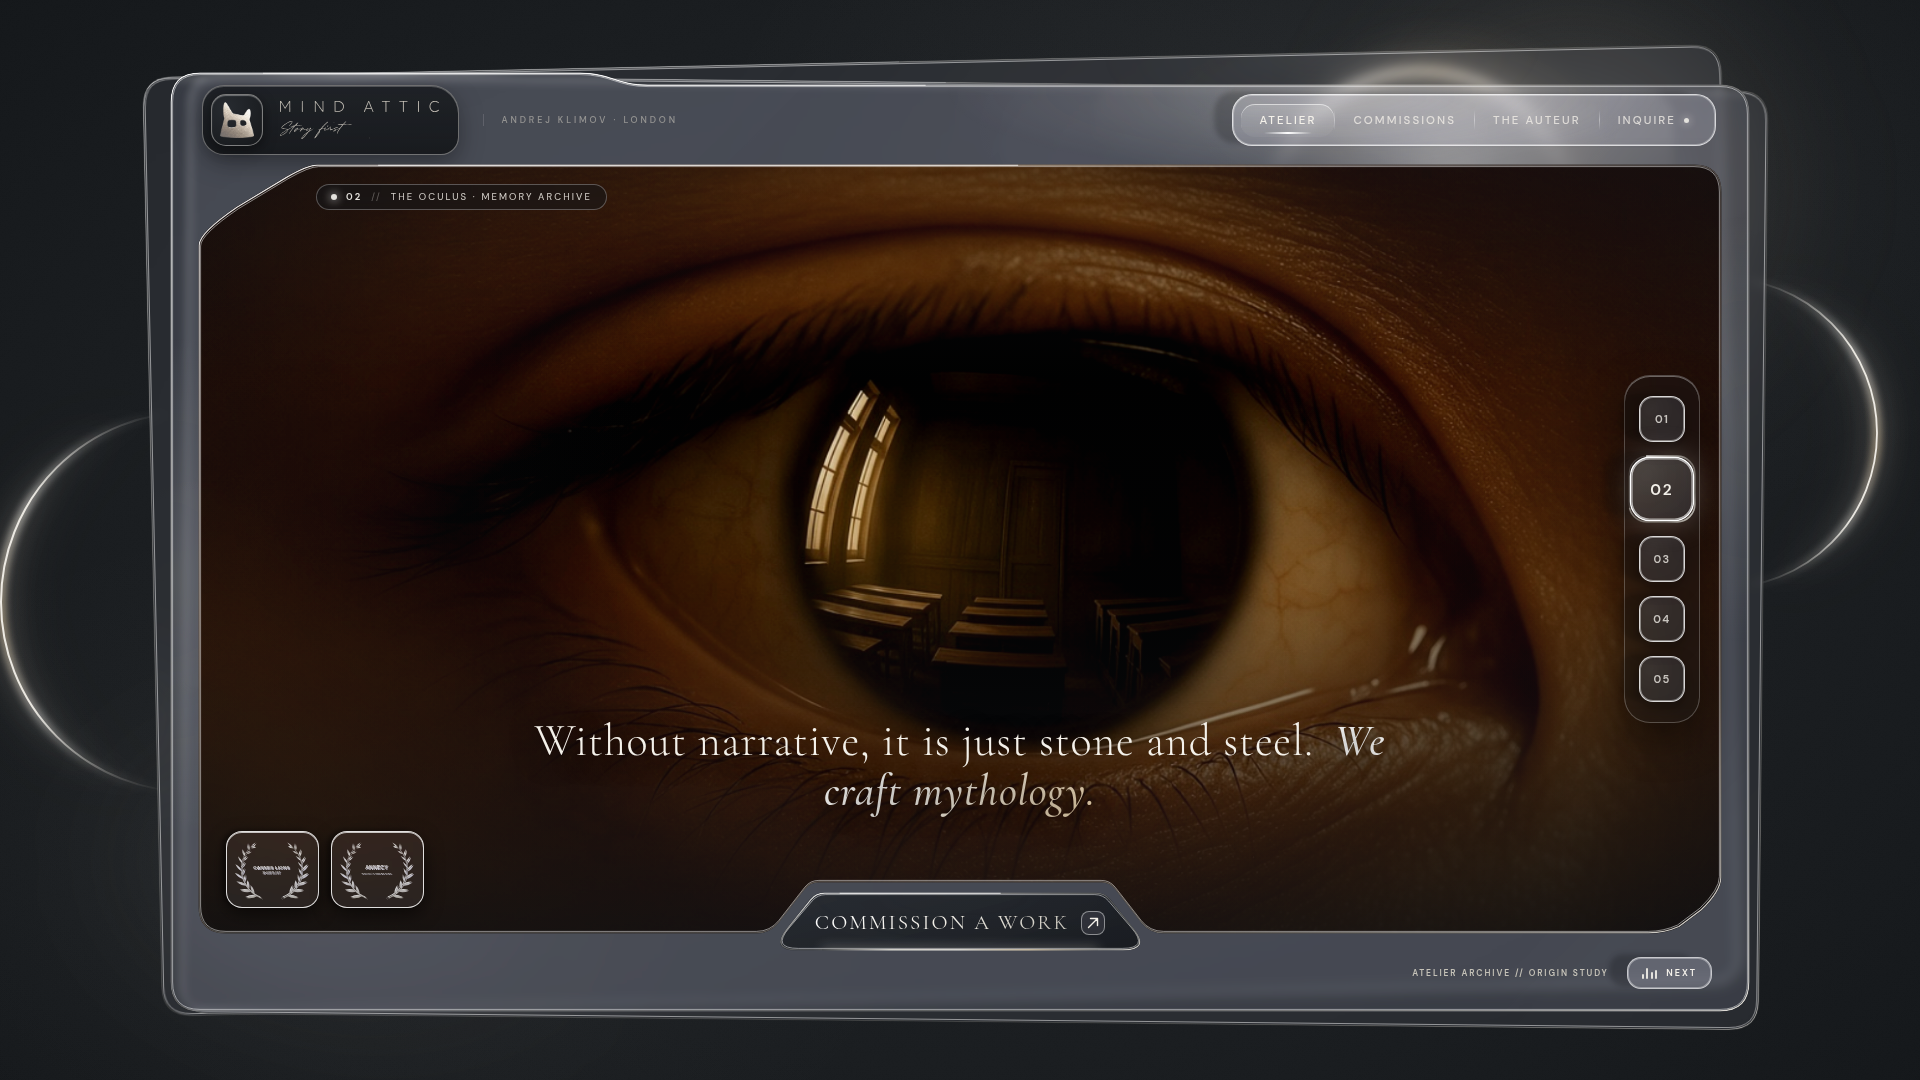
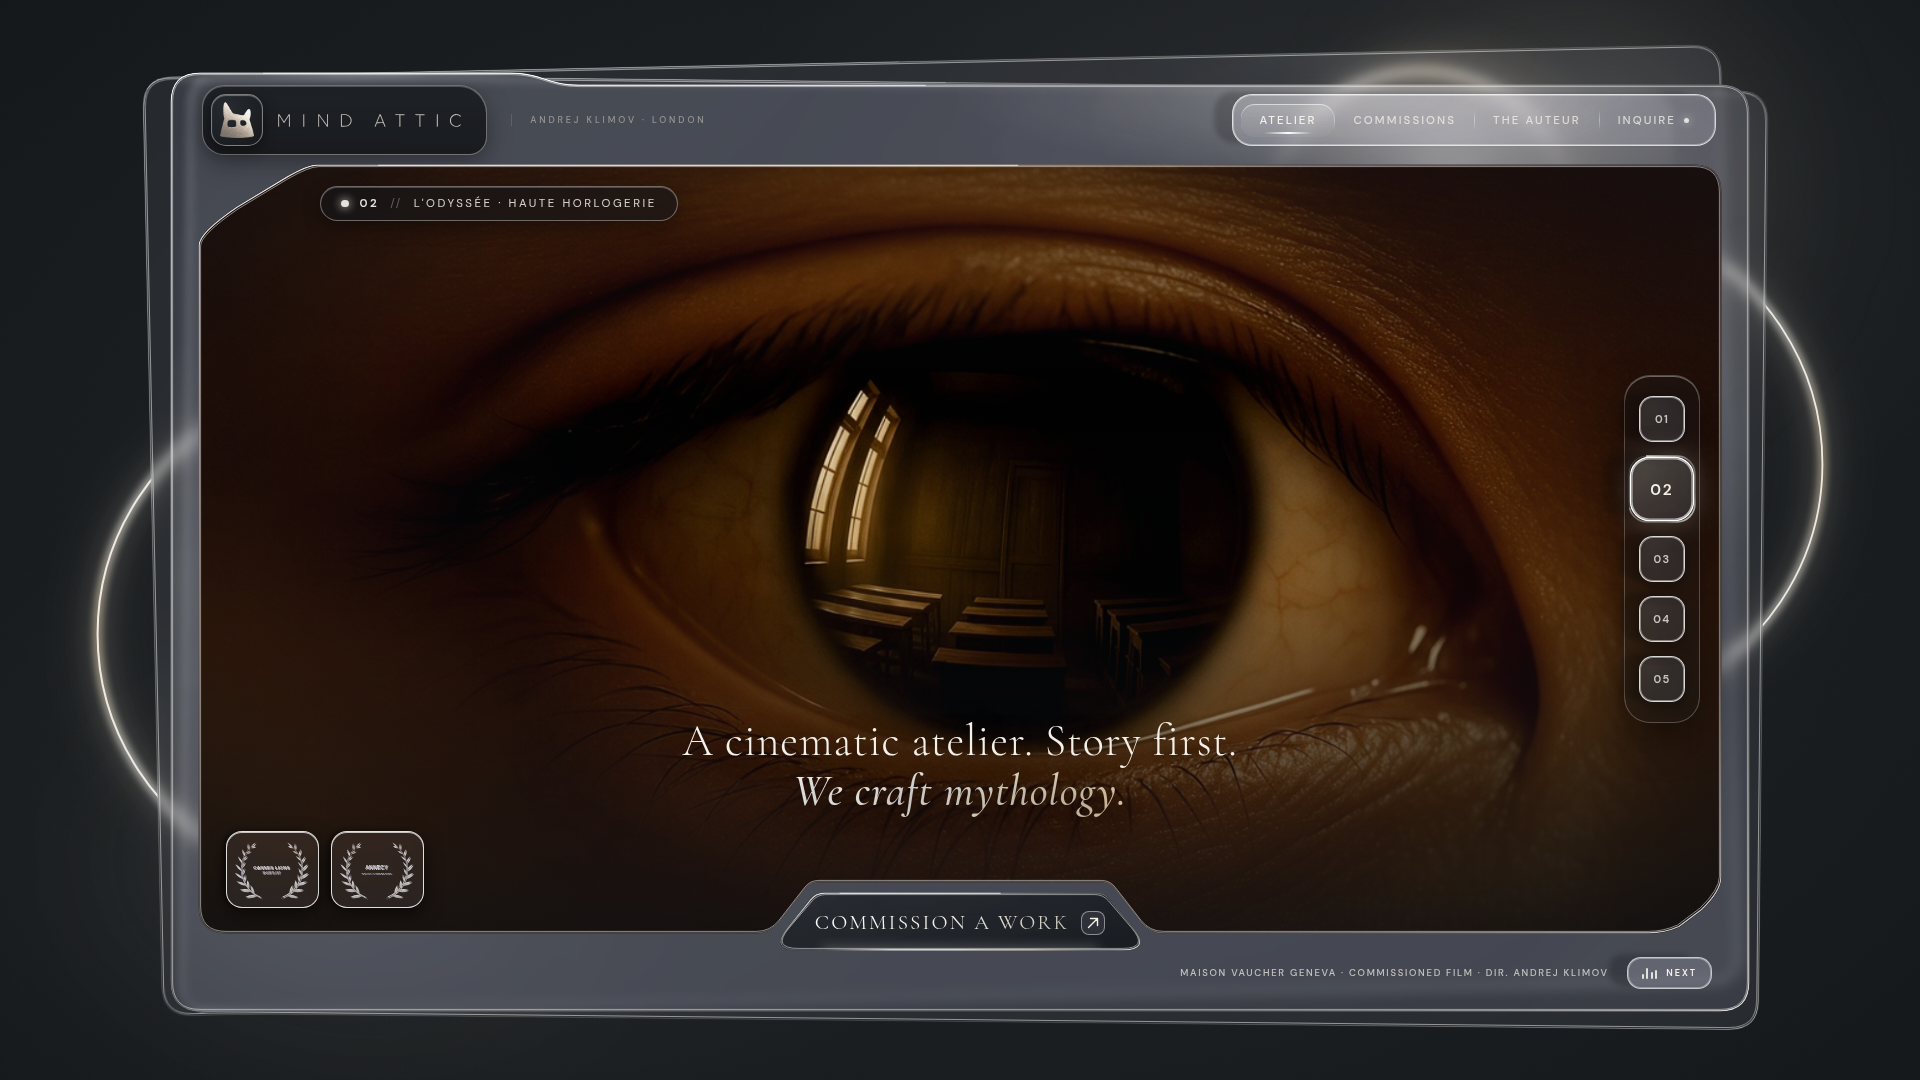
Lock the hero line to the studio and let each reel speak from the corners.
Keep the center statement fixed, reduce the sanctuary to the mark and wordmark, and move the active film credit into the pill and the bottom-right.

diff --git a/index.html b/index.html
@@ -177,20 +177,12 @@
         <!-- TOP ARCHITECTURAL DECK: Left Brand Sanctuary + Right Stepped Glass HUD Rail -->
         <header class="stage-top-deck">
           <!-- Top-Left Brand Sanctuary (Echoing the Creature's Asymmetrical Ear Wing) -->
-          <a href="#hero-section" class="brand-sanctuary" id="brand-sanctuary" aria-label="Mind Attic — Story first">
+          <a href="#hero-section" class="brand-sanctuary" id="brand-sanctuary" aria-label="Mind Attic">
             <div class="brand-mark-pedestal">
-              <img src="assets/mindattic-mark-foil.png" alt="The Creature of the Attic" class="brand-creature-img" />
+              <img src="assets/mindattic-mark-foil.png" alt="" class="brand-creature-img" />
               <span class="brand-pedestal-ring" aria-hidden="true"></span>
             </div>
-            <div class="brand-lockup-text">
-              <div class="brand-wordmark-row">
-                <img src="assets/brand-wordmark.svg" alt="MIND ATTIC" class="brand-name-img" />
-              </div>
-              <div class="brand-sub-row">
-                <img src="assets/brand-signature.svg" alt="Story first" class="brand-signature-img" />
-                <span class="brand-atelier-tag">CINEMATIC ATELIER</span>
-              </div>
-            </div>
+            <img src="assets/brand-wordmark.svg" alt="MIND ATTIC" class="brand-wordmark-svg" />
           </a>
 
           <div class="deck-slope-telemetry" aria-hidden="true">
@@ -259,9 +251,8 @@
 
             <!-- QUIET-LUXURY EDITORIAL COPY OVERLAY -->
             <div class="cinema-editorial-copy">
-              <h1 class="editorial-headline" id="editorial-headline">
-                <span class="headline-primary">The bond that saves you.</span>
-                <em class="headline-italic">The bond that breaks you.</em>
+              <h1 class="editorial-headline" id="reel-headline">
+                A cinematic atelier. Story first.<br><em>We craft mythology.</em>
               </h1>
             </div>
 
@@ -292,7 +283,7 @@
                 <span class="frb-num">01</span>
               </button>
 
-              <button class="frosted-reel-btn" data-reel="1" type="button" aria-label="Reel 02: The Oculus, memory archive">
+              <button class="frosted-reel-btn" data-reel="1" type="button" aria-label="Reel 02: L'Odyssée, haute horlogerie">
                 <span class="frb-noise" aria-hidden="true"></span>
                 <svg class="frb-ring-svg" viewBox="0 0 64 64" aria-hidden="true">
                   <rect x="2" y="2" width="60" height="60" rx="16" ry="16" class="frb-ring-track" />
@@ -301,7 +292,7 @@
                 <span class="frb-num">02</span>
               </button>
 
-              <button class="frosted-reel-btn" data-reel="2" type="button" aria-label="Reel 03: The Raw, origin slate">
+              <button class="frosted-reel-btn" data-reel="2" type="button" aria-label="Reel 03: Aethel, architectural film">
                 <span class="frb-noise" aria-hidden="true"></span>
                 <svg class="frb-ring-svg" viewBox="0 0 64 64" aria-hidden="true">
                   <rect x="2" y="2" width="60" height="60" rx="16" ry="16" class="frb-ring-track" />
@@ -310,7 +301,7 @@
                 <span class="frb-num">03</span>
               </button>
 
-              <button class="frosted-reel-btn" data-reel="3" type="button" aria-label="Reel 04: The Mark, architectural precision">
+              <button class="frosted-reel-btn" data-reel="3" type="button" aria-label="Reel 04: Vespers, bespoke automotive">
                 <span class="frb-noise" aria-hidden="true"></span>
                 <svg class="frb-ring-svg" viewBox="0 0 64 64" aria-hidden="true">
                   <rect x="2" y="2" width="60" height="60" rx="16" ry="16" class="frb-ring-track" />
@@ -319,7 +310,7 @@
                 <span class="frb-num">04</span>
               </button>
 
-              <button class="frosted-reel-btn" data-reel="4" type="button" aria-label="Reel 05: The Legacy, sovereign worlds">
+              <button class="frosted-reel-btn" data-reel="4" type="button" aria-label="Reel 05: Nocturne IX, private aviation">
                 <span class="frb-noise" aria-hidden="true"></span>
                 <svg class="frb-ring-svg" viewBox="0 0 64 64" aria-hidden="true">
                   <rect x="2" y="2" width="60" height="60" rx="16" ry="16" class="frb-ring-track" />
@@ -355,7 +346,7 @@
           </div>
 
           <div class="dock-wing dock-wing--right">
-            <span class="dock-wing-label" id="dock-reel-category">WRITTEN &amp; DIRECTED BY ANDREJ KLIMOV</span>
+            <span class="dock-wing-label" id="vhud-director-tag">"THE BOND THAT SAVES YOU." · WRITTEN &amp; DIRECTED BY ANDREJ KLIMOV</span>
             <button class="dock-audio-pill" id="dock-cycle-btn" type="button" title="Advance to Next Reel">
               <span class="audio-bars" aria-hidden="true">
                 <i></i><i></i><i></i><i></i>

diff --git a/assets/js/app.js b/assets/js/app.js
@@ -11,9 +11,7 @@
     {
       num: "01",
       title: "EVERCLOSE · FLAGSHIP SERIES",
-      headlinePrimary: "The bond that saves you.",
-      headlineItalic: "The bond that breaks you.",
-      category: "WRITTEN & DIRECTED BY ANDREJ KLIMOV",
+      bottomRightCredit: '"THE BOND THAT SAVES YOU." · WRITTEN & DIRECTED BY ANDREJ KLIMOV',
       laurels: [
         { src: "assets/laurel-shaike-glass.png", alt: "Official Selection, Best Animation, Shaike Film Festival, La Ciotat 2026" },
         { src: "assets/laurel-aimovie-glass.png", alt: "Official Selection, AI Movie Awards 2026" },
@@ -22,10 +20,8 @@
     },
     {
       num: "02",
-      title: "THE OCULUS · MEMORY ARCHIVE",
-      headlinePrimary: "Without narrative, it is just stone and steel.",
-      headlineItalic: "We craft mythology.",
-      category: "ATELIER ARCHIVE // ORIGIN STUDY",
+      title: "L'ODYSSÉE · HAUTE HORLOGERIE",
+      bottomRightCredit: "MAISON VAUCHER GENEVA · COMMISSIONED FILM · DIR. ANDREJ KLIMOV",
       laurels: [
         { src: "assets/laurel-cannes-glass.svg", alt: "Cannes Lions Shortlist" },
         { src: "assets/laurel-annecy-glass.svg", alt: "Annecy Official Selection" },
@@ -33,10 +29,8 @@
     },
     {
       num: "03",
-      title: "THE RAW · ORIGIN SLATE",
-      headlinePrimary: "A blank slate. A silent room.",
-      headlineItalic: "Before the first cut.",
-      category: "ATELIER ARCHIVE // MATERIAL STUDY",
+      title: "AETHEL · ARCHITECTURAL FILM",
+      bottomRightCredit: "MONOLITH & SEA · ARCHITECTURAL MONOGRAPH · DIR. ANDREJ KLIMOV",
       laurels: [
         { src: "assets/laurel-tribeca-glass.svg", alt: "Tribeca X Selection" },
         { src: "assets/laurel-dad-glass.svg", alt: "D&AD Graphite Pencil" },
@@ -44,10 +38,8 @@
     },
     {
       num: "04",
-      title: "THE MARK · ARCHITECTURAL PRECISION",
-      headlinePrimary: "Every line is deliberate.",
-      headlineItalic: "Authorship is the edge.",
-      category: "ATELIER ARCHIVE // BESPOKE COMMISSION",
+      title: "VESPERS · BESPOKE AUTOMOTIVE",
+      bottomRightCredit: "COACHBUILT ONE-OFF · LAKE COMO COMMISSION · DIR. ANDREJ KLIMOV",
       laurels: [
         { src: "assets/laurel-venice-glass.svg", alt: "Venice Design Biennial" },
         { src: "assets/laurel-reddot-glass.svg", alt: "Red Dot Luminary" },
@@ -55,10 +47,8 @@
     },
     {
       num: "05",
-      title: "THE LEGACY · SOVEREIGN WORLDS",
-      headlinePrimary: "Built for those who shape permanence.",
-      headlineItalic: "We craft mythology.",
-      category: "ATELIER ARCHIVE // SOVEREIGN WORLDS",
+      title: "NOCTURNE IX · PRIVATE AVIATION",
+      bottomRightCredit: "BESPOKE CABIN STUDY · GENEVA COMMISSION · DIR. ANDREJ KLIMOV",
       laurels: [
         { src: "assets/laurel-monaco-glass.svg", alt: "Monaco Yacht Show Grand Prix" },
         { src: "assets/laurel-lia-glass.svg", alt: "London International Awards" },
@@ -198,7 +188,7 @@
       wingW = Math.round(br.right - lr.left + pad);
     }
     const maxWing = Math.max(140, x1 - rad - slopeW - 10);
-    const minWing = isMobile ? 160 : 300;
+    const minWing = isMobile ? 140 : 220;
     return Math.max(minWing, Math.min(wingW, maxWing));
   }
 
@@ -606,15 +596,11 @@
 
     const elVhudCode = document.getElementById("vhud-reel-code");
     const elVhudTitle = document.getElementById("vhud-reel-title");
-    const elHeadline = document.getElementById("editorial-headline");
-    const elDockCat = document.getElementById("dock-reel-category");
+    const elCredit = document.getElementById("vhud-director-tag");
 
     if (elVhudCode) elVhudCode.textContent = data.num;
     if (elVhudTitle) elVhudTitle.textContent = data.title;
-    if (elHeadline) {
-      elHeadline.innerHTML = `<span class="headline-primary">${data.headlinePrimary}</span> <em class="headline-italic">${data.headlineItalic}</em>`;
-    }
-    if (elDockCat) elDockCat.textContent = data.category;
+    if (elCredit) elCredit.textContent = data.bottomRightCredit;
     renderLaurels(data.laurels);
 
     if (nextIdx === 0) {
@@ -708,7 +694,7 @@
       const ro = new ResizeObserver(() => {
         window.requestAnimationFrame(updateFluidGlassGeometry);
       });
-      ["stage-assembly", "light-emitter-layer", "glass-layer-1", "glass-layer-2", "glass-layer-3", "cinema-viewport", "cta-command-button"].forEach((id) => {
+      ["stage-assembly", "light-emitter-layer", "glass-layer-1", "glass-layer-2", "glass-layer-3", "cinema-viewport", "cta-command-button", "brand-sanctuary"].forEach((id) => {
         const el = document.getElementById(id);
         if (el) ro.observe(el);
       });

diff --git a/assets/css/style.css b/assets/css/style.css
@@ -342,7 +342,7 @@ html, body {
 .brand-sanctuary {
   display: flex;
   align-items: center;
-  gap: 16px;
+  gap: 14px;
   text-decoration: none;
   color: var(--bone-white);
   padding: 8px 24px 8px 8px;
@@ -384,51 +384,11 @@ html, body {
   background: transparent;
 }
 
-.brand-lockup-text {
-  display: flex;
-  flex-direction: column;
-  justify-content: center;
-  gap: 7px;
-  min-width: 0;
-}
-
-.brand-wordmark-row {
-  display: flex;
-  align-items: center;
-  background: transparent;
-}
-
-.brand-name-img {
-  height: 13px;
+.brand-wordmark-svg {
+  height: 15px;
   width: auto;
   display: block;
   background: transparent;
-}
-
-.brand-sub-row {
-  display: flex;
-  align-items: center;
-  gap: 12px;
-  min-width: 0;
-}
-
-.brand-signature-img {
-  height: 20px;
-  width: auto;
-  display: block;
-  flex: 0 0 auto;
-  background: transparent;
-}
-
-.brand-atelier-tag {
-  font-size: 9px;
-  font-weight: 500;
-  letter-spacing: 0.28em;
-  text-transform: uppercase;
-  color: var(--platinum-mid);
-  padding-left: 12px;
-  border-left: 1px solid rgba(228, 226, 221, 0.28);
-  white-space: nowrap;
 }
 
 /* Whisper credit between the lockup and the navigation rail */
@@ -734,13 +694,7 @@ html, body {
   text-shadow: 0 4px 28px rgba(0, 0, 0, 0.85);
 }
 
-.headline-primary {
-  display: inline;
-}
-
-.headline-italic {
-  display: inline;
-  margin-left: 10px;
+.editorial-headline em {
   font-style: italic;
   font-weight: 400;
   background: linear-gradient(135deg, #FFFFFF 0%, #E4E2DD 45%, #DFC8A2 100%);
@@ -918,6 +872,13 @@ html, body {
   text-transform: uppercase;
   color: var(--platinum-mid);
   white-space: nowrap;
+}
+
+#vhud-director-tag {
+  font-size: 9.5px;
+  font-weight: 500;
+  letter-spacing: 0.18em;
+  color: rgba(244, 241, 234, 0.72);
 }
 
 /* Center Sculpted Glass Command CTA Dock ("Commission a Work")
@@ -1182,26 +1143,8 @@ html, body {
     padding: 6px;
   }
 
-  .brand-lockup-text {
-    gap: 5px;
-  }
-
-  .brand-name-img {
-    height: 11px;
-  }
-
-  .brand-signature-img {
-    height: 16px;
-  }
-
-  .brand-sub-row {
-    gap: 10px;
-  }
-
-  .brand-atelier-tag {
-    font-size: 7.5px;
-    letter-spacing: 0.20em;
-    padding-left: 10px;
+  .brand-wordmark-svg {
+    height: 12px;
   }
 
   .hud-nav-rail {
@@ -1300,10 +1243,8 @@ html, body {
     line-height: 1.18;
   }
 
-  .headline-italic {
-    display: block;
-    margin-left: 0;
-    margin-top: 2px;
+  .editorial-headline em {
+    display: inline;
   }
 
   /* Own layer, dead-center above the notch. Laurels and the headline do not move it. */
